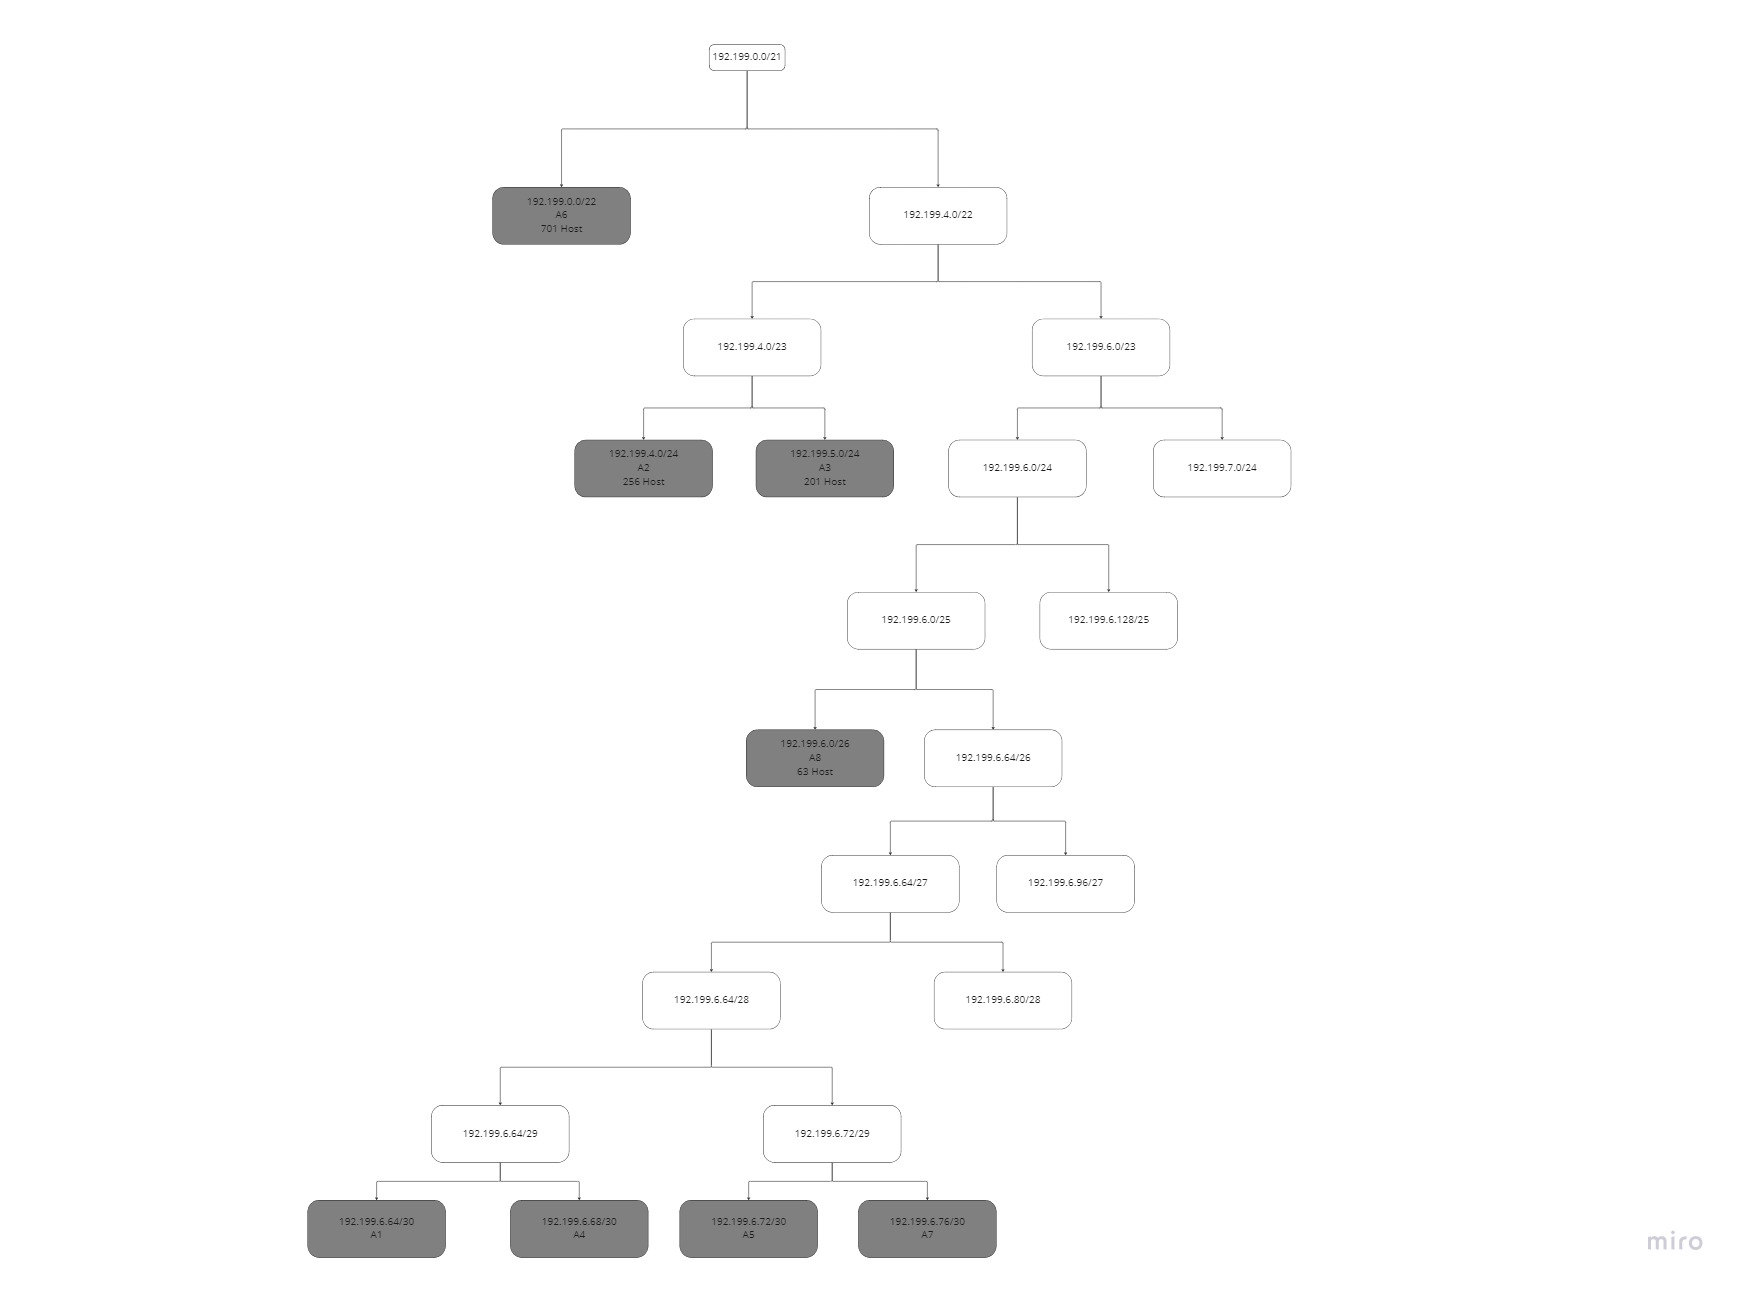
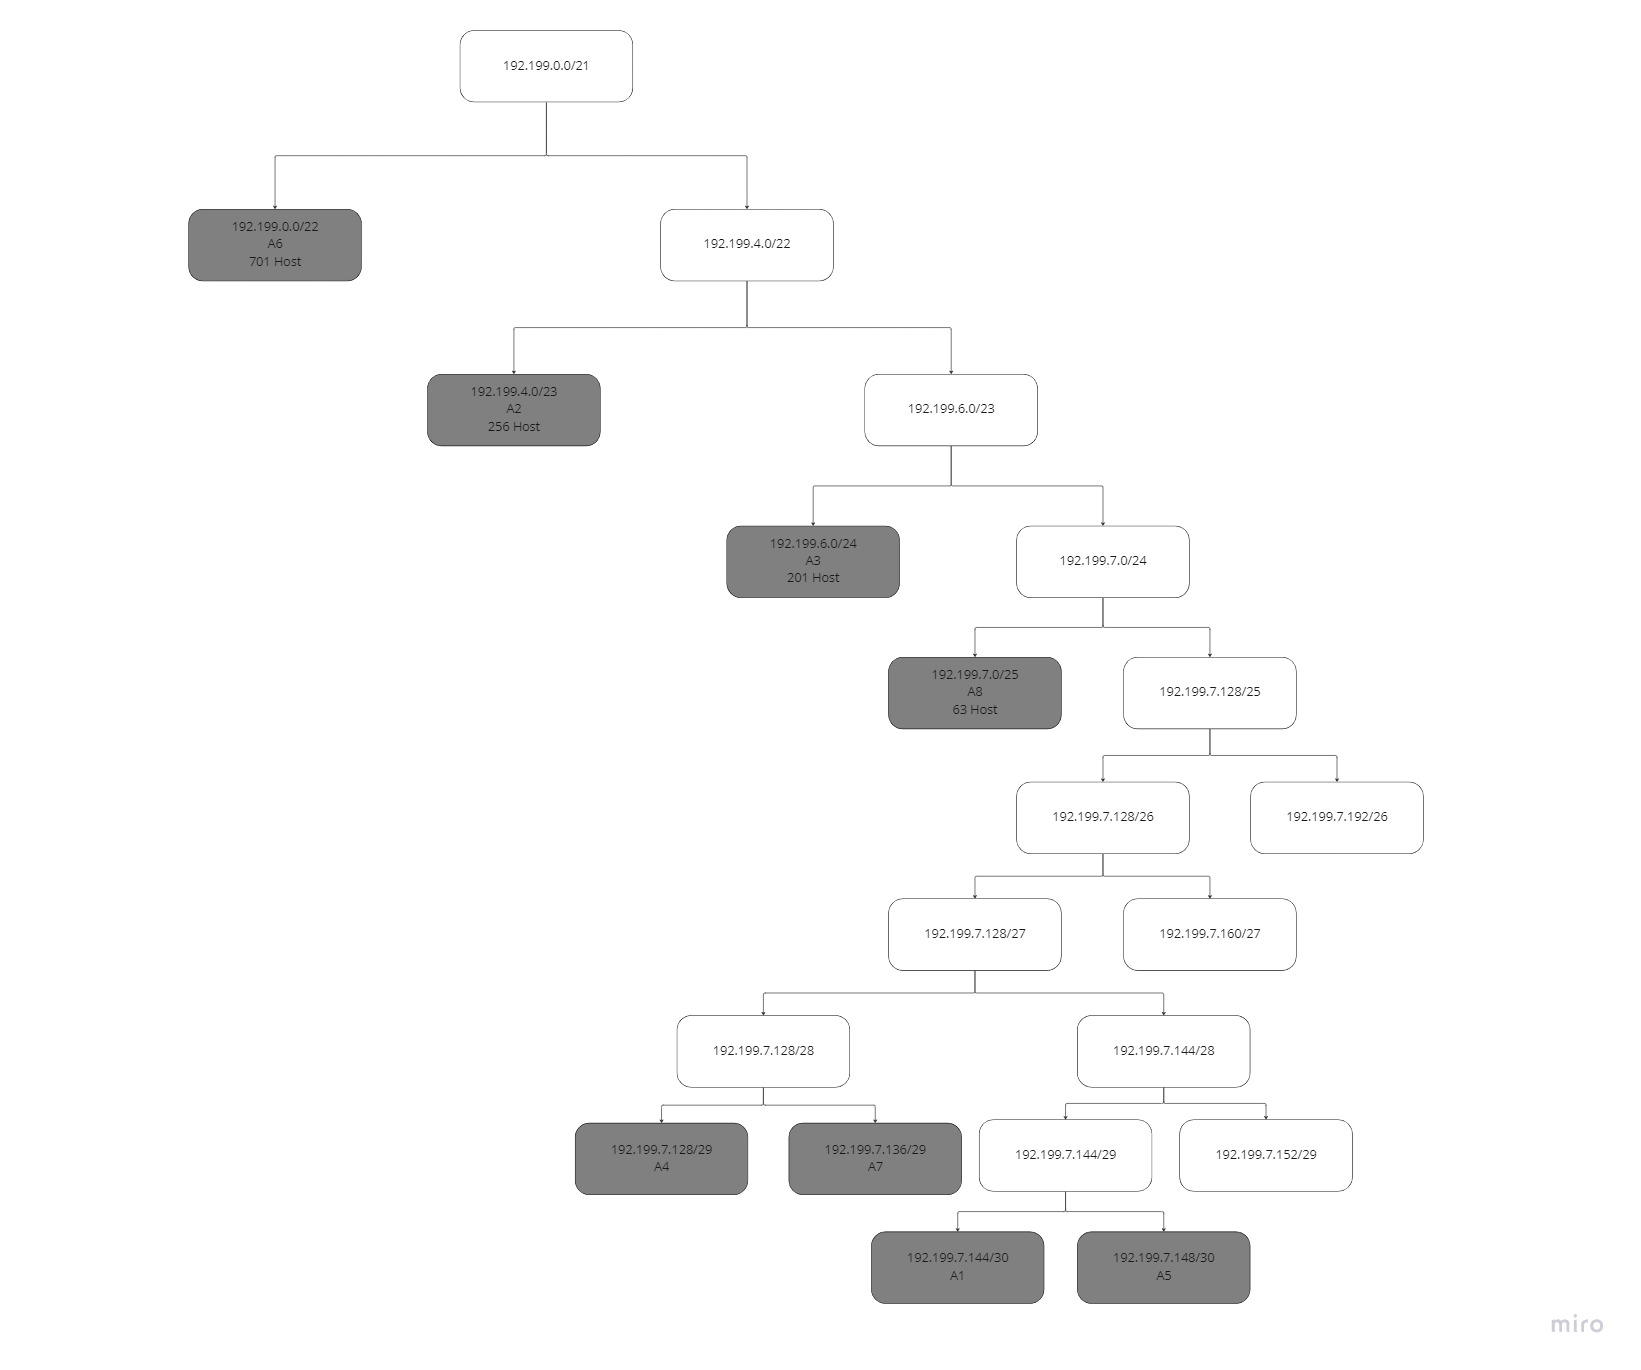
fix

diff --git a/README.md b/README.md
@@ -1,8 +1,8 @@
 # Jarkom-Modul5-E14-2022
 
-| Nama                   | NRP        |
-| ---------------------- | ---------- |
-| Dhafin Almas Nusantara | 5025201064 |
+| Nama                   | NRP        | prefix  |
+| ---------------------- | ---------- | ------- |
+| Dhafin Almas Nusantara | 5025201064 | 192.199 |
 
 ## Topologi
 
@@ -10,16 +10,16 @@
 
 ## VLSM
 
-| Node  | Alokasi | Netmask | IP           |
-| ----- | ------- | ------- | ------------ |
-| A1    | 2       | /30     | 192.199.6.64 |
-| A2    | 256     | /24     | 192.199.4.0  |
-| A3    | 201     | /24     | 192.199.5.0  |
-| A4    | 3       | /30     | 192.199.6.68 |
-| A5    | 2       | /30     | 192.199.6.72 |
-| A6    | 701     | /22     | 192.199.0.0  |
-| A7    | 3       | /30     | 192.199.6.76 |
-| A8    | 63      | /26     | 192.199.6.0  |
+| Node  | Alokasi | Netmask | IP            |
+| ----- | ------- | ------- | ------------- |
+| A1    | 2       | /30     | 192.199.7.144 |
+| A2    | 256     | /23     | 192.199.4.0   |
+| A3    | 201     | /24     | 192.199.6.0   |
+| A4    | 3       | /29     | 192.199.7.128 |
+| A5    | 2       | /30     | 192.199.7.148 |
+| A6    | 701     | /22     | 192.199.0.0   |
+| A7    | 3       | /29     | 192.199.7.136 |
+| A8    | 63      | /25     | 192.199.7.0   |
 | Total | 1231    | /21     |
 
 ## Pohon VLSM
@@ -36,12 +36,12 @@ iface eth0 inet dhcp
 
 auto eth1
 iface eth1 inet static
-address 192.199.6.65
+address 192.199.7.145
 netmask 255.255.255.252
 
 auto eth2
 iface eth2 inet static
-address 192.199.6.73
+address 192.199.7.149
 netmask 255.255.255.252
 ```
 
@@ -50,9 +50,9 @@ netmask 255.255.255.252
 ```
 auto eth0
 iface eth0 inet static
-address 192.199.6.74
+address 192.199.7.150
 netmask 255.255.255.252
-gateway 192.199.6.73
+gateway 192.199.7.149
 
 auto eth1
 iface eth1 inet static
@@ -61,13 +61,13 @@ netmask 255.255.252.0
 
 auto eth2
 iface eth2 inet static
-address 192.199.6.1
-netmask 255.255.255.192
+address 192.199.7.1
+netmask 255.255.255.128
 
 auto eth3
 iface eth3 inet static
-address 192.199.6.77
-netmask 255.255.255.252
+address 192.199.7.137
+netmask 255.255.255.248
 ```
 
 - Wise
@@ -75,9 +75,9 @@ netmask 255.255.255.252
 ```
 auto eth0
 iface eth0 inet static
-address 192.199.6.78
-netmask 255.255.255.252
-gateaway 192.199.6.77
+address 192.199.7.138
+netmask 255.255.255.248
+gateaway 192.199.7.137
 ```
 
 - Eden
@@ -85,9 +85,9 @@ gateaway 192.199.6.77
 ```
 auto eth0
 iface eth0 inet static
-address 192.199.6.79
-netmask 255.255.255.252
-gateaway 192.199.6.77
+address 192.199.7.139
+netmask 255.255.255.248
+gateaway 192.199.7.137
 ```
 
 - Forger
@@ -95,9 +95,9 @@ gateaway 192.199.6.77
 ```
 auto eth0
 iface eth0 inet static
-address 192.199.6.2
-netmask 255.255.255.192
-gateaway 192.199.6.1
+address 192.199.7.2
+netmask 255.255.255.128
+gateaway 192.199.7.1
 ```
 
 - Desmond
@@ -116,23 +116,23 @@ gateaway 192.199.0.1
 ```
 auto eth0
 iface eth0 inet static
-address 192.199.6.66
+address 192.199.7.146
 netmask 255.255.255.252
-gateway 192.199.6.65
+gateway 192.199.7.146
 
 auto eth1
 iface eth1 inet static
 address 192.199.4.1
-netmask 255.255.255.0
+netmask 255.255.254.0
 
 auto eth2
 iface eth2 inet static
-address 192.199.6.69
-netmask 255.255.255.252
+address 192.199.7.129
+netmask 255.255.255.248
 
 auto eth3
 iface eth3 inet static
-address 192.199.5.1
+address 192.199.6.1
 netmask 255.255.255.0
 ```
 
@@ -142,7 +142,7 @@ netmask 255.255.255.0
 auto eth0
 iface eth0 inet static
 address 192.199.4.2
-netmask 255.255.255.0
+netmask 255.255.254.0
 gateway 192.199.4.1
 ```
 
@@ -151,9 +151,9 @@ gateway 192.199.4.1
 ```
 auto eth0
 iface eth0 inet static
-address 192.199.5.2
+address 192.199.6.2
 netmask 255.255.255.0
-gateway 192.199.5.1
+gateway 192.199.6.1
 ```
 
 - Garden
@@ -161,9 +161,9 @@ gateway 192.199.5.1
 ```
 auto eth0
 iface eth0 inet static
-address 192.199.6.70
-netmask 255.255.255.252
-gateway 192.199.5.69
+address 192.199.7.130
+netmask 255.255.255.248
+gateway 192.199.7.129
 ```
 
 - SSS
@@ -171,9 +171,9 @@ gateway 192.199.5.69
 ```
 auto eth0
 iface eth0 inet static
-address 192.199.6.71
-netmask 255.255.255.252
-gateway 192.199.5.69
+address 192.199.7.131
+netmask 255.255.255.248
+gateway 192.199.7.129
 ```
 
 ## Config Routing
